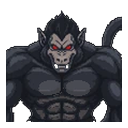
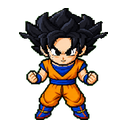
fix(pet): restore Goku Base canon form with full 9-state animation suite

diff --git a/src/components/pet/types.ts b/src/components/pet/types.ts
@@ -548,10 +548,10 @@ export const INSTALLED_PETS: PetArchetype[] = [
     forms: [
       {
         id: "base",
-        name: "Goku (Great Ape Oozaru)",
+        name: "Goku (Base)",
         minLevel: 1,
-        hairDescription: "Bộ lông vượn đen xám đậm than, mõm khỉ xám, đuôi dài, mắt đỏ rực",
-        auraDescription: "Hào quang trăng tròn ánh xám bạc ôm lấy cơ thể khỉ đột khổng lồ",
+        hairDescription: "Tóc đen nhánh xoè sang hai bên, mắt đen",
+        auraDescription: "Không bùng khí khi nghỉ, chớp trắng nhẹ khi dồn lực",
         avatarUrl: "/pets/super-saiyan-goku/forms/base/avatar.png",
         spritesheetPath: "/pets/super-saiyan-goku/forms/base/spritesheet.webp",
       },

diff --git a/src/shared/lib/petRenderer.ts b/src/shared/lib/petRenderer.ts
@@ -323,7 +323,7 @@ export interface PetAura {
 // Ki aura per evolution form, keyed "<slug>/<formId>". Colours follow
 // docs/engineering/goku-form-sprite-redesign-research.md (3.3).
 export const FORM_AURAS: Record<string, PetAura> = {
-  "super-saiyan-goku/base": { inner: "#f1f5f9", outer: "#64748b", intensity: 1.15 },
+  "super-saiyan-goku/base": { inner: "#f4f7ff", intensity: 0.45 },
   "super-saiyan-goku/kaioken": { inner: "#ef4444", outer: "#b91c1c", intensity: 1.15 },
   "super-saiyan-goku/ss1": { inner: "#fde047", outer: "#eab308", intensity: 0.95 },
   "super-saiyan-goku/ss2": { inner: "#fef08a", outer: "#eab308", sparks: "#38bdf8", intensity: 1.15 },

diff --git a/scripts/build-goku-forms.py b/scripts/build-goku-forms.py
@@ -518,14 +518,6 @@ def main():
             if form_id in previous:
                 manifest["forms"][form_id] = previous[form_id]
             continue
-        if form_id == "base":
-            import importlib.util
-            spec = importlib.util.spec_from_file_location("build_oozaru_base", ROOT / "scripts" / "build-oozaru-base.py")
-            oozaru_mod = importlib.util.module_from_spec(spec)
-            spec.loader.exec_module(oozaru_mod)
-            oozaru_mod.build_oozaru_sheet()
-            manifest["forms"]["base"] = json.loads(manifest_path.read_text())["forms"]["base"]
-            continue
         out = sheet.copy()
         for r in range(ROWS):
             for c in range(COLS):
